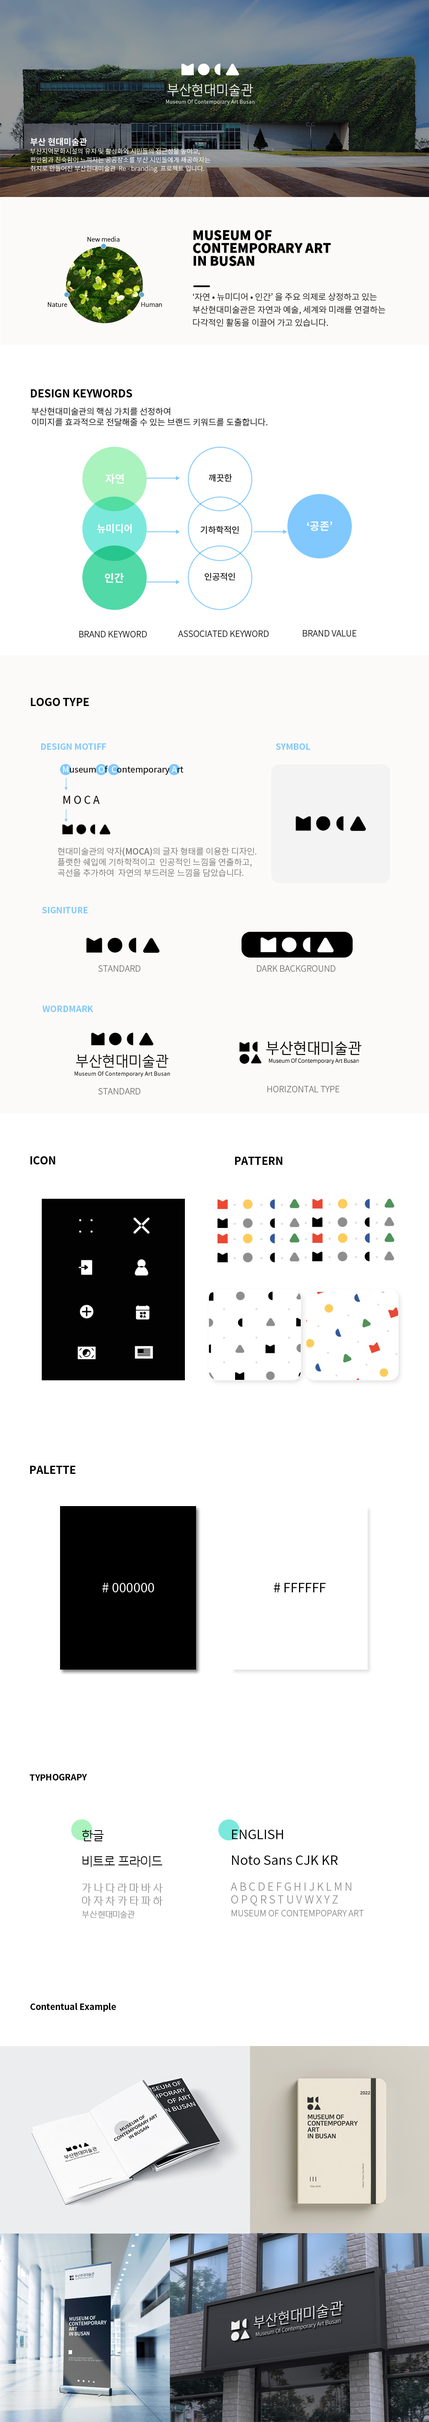
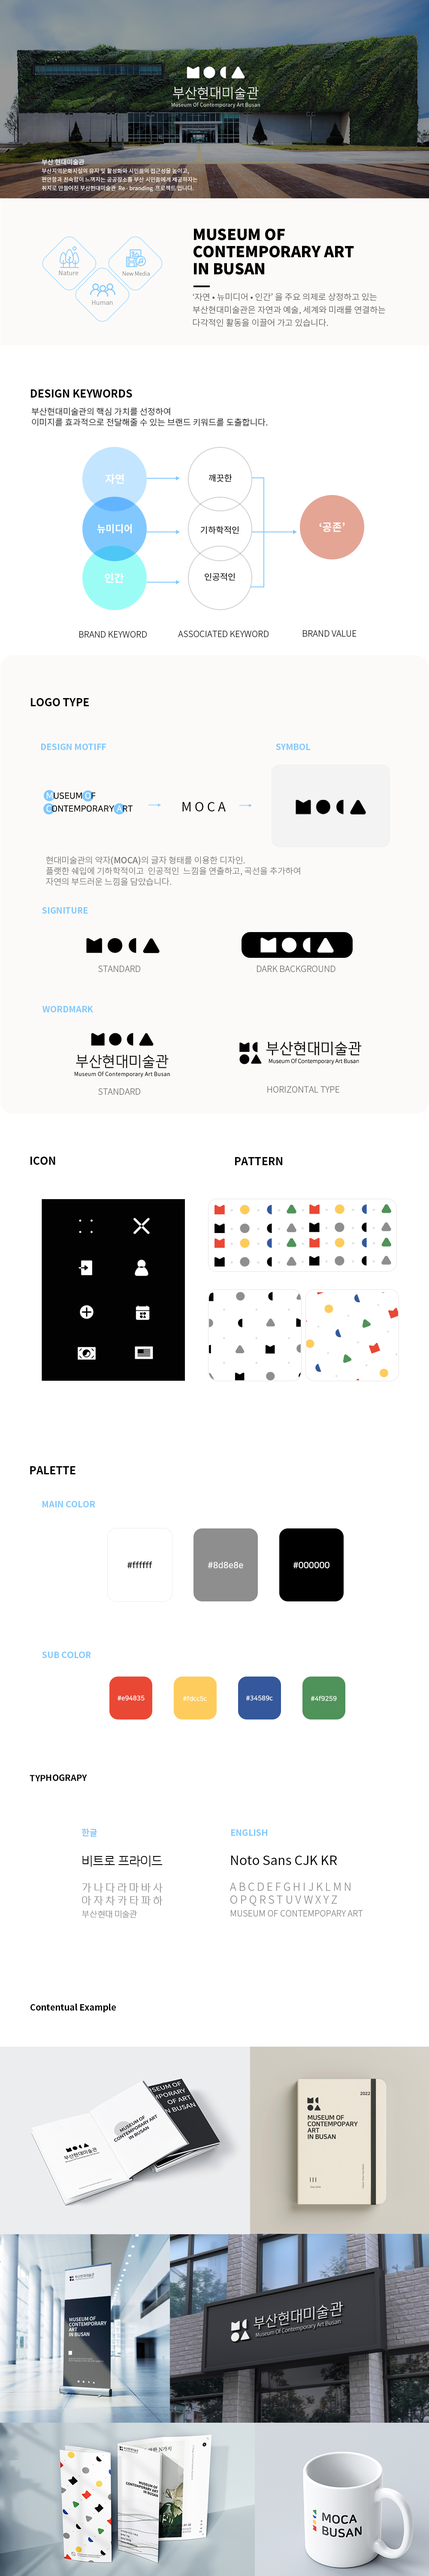
kew 0617

diff --git a/web.html b/web.html
@@ -84,7 +84,7 @@
                                         </li>
                                         <li>
                                             <span class="s_tit">기여도</span>
-                                            <span class="s_tit2"> 100% 개인작업 / 시안제작, HTML·CSS·jQuery 하드코딩, 컨텐츠 제작</span>
+                                            <span class="s_tit2"> 100% 개인작업 / BI·BX 기획, 시안제작, HTML·CSS·jQuery 하드코딩, 컨텐츠 제작</span>
                                         </li>
                                         <li>
                                             <span class="s_tit">제작툴</span>
@@ -97,7 +97,7 @@
                                     </ul>
                                     <div class="btn">
                                         <button><a href="web_moca/index.html" target="_blank"></a></button>
-                                        <button class="moca_over"><a href="web_moca/images/mocaguide.jpg" title="MOCA BUSAN 시스템 가이드" class="pin_a" rel="height"></button>
+                                        <button class="moca_over"><a href="img/mocaguide.jpg" title="MOCA BUSAN 시스템 가이드" class="pin_a" rel="height"></button>
                                     </div>
                                     <!-- <article class="moca_over" title="">	
                                         <a href="web_moca/images/mocaguide.jpg" title="MOCA BUSAN 시스템 가이드" class="pin_a">
@@ -121,7 +121,7 @@
                                         </li>
                                         <li>
                                             <span class="s_tit">기여도</span>
-                                            <span class="s_tit2">100% 개인작업 / 카페24 스킨 수정, 이미지 컨텐츠 제작 </span>
+                                            <span class="s_tit2">100% 개인작업 /카페24 스킨 수정, 이미지 컨텐츠 제작 </span>
                                         </li>
                                         <li>
                                             <span class="s_tit">제작툴</span>
@@ -191,32 +191,32 @@
                                     </a>
                                 </article> -->
                                 <article class="pin-panel" title="height">	
-                                    <a href="img/graphic/lavien.jpg" title="라비앙르로즈 홍보배너" class="pin_a">
+                                    <a href="img/graphic/lavien.jpg" title="라비앙르로즈 홍보배너" class="pin_a" rel="height">
                                         <img src="img/graphic/lavien.jpg" alt="라비앙르로즈 홍보배너">
                                         <h2>라비앙르로즈 홍보배너</h2>
                                     </a>
                                 </article>  
-                                <article class="pin-panel" title="">	
+                                <article class="pin-panel">	
                                     <a href="img/graphic/g_pop_up.png" title="낭만피크닉 팝업배너" class="pin_a">
                                         <img src="img/graphic/g_pop_up.png" alt="낭만피크닉 팝업배너">
                                         <h2>낭만피크닉 팝업배너</h2>
                                     </a>
                                 </article>  
                                  <!-- 첫줄 -->
-                                 <article class="pin-panel" title="">	
+                                 <article class="pin-panel" >	
                                     <a href="img/graphic/moca_banner_01.jpg" title="H&B 메인배너" class="pin_a">
                                         <img src="img/graphic/moca_banner_01.jpg" alt="H&B 메인배너">
                                         <h2>H&B 메인배너</h2>
                                     </a>
                                 </article>
-                                <article class="pin-panel" title="">	
+                                <article class="pin-panel">	
                                     <a href="img/graphic/banner_02.jpg" title="H&B 이벤트 배너" class="pin_a">
                                         <img src="img/graphic/banner_02.jpg" alt="H&B 이벤트 배너">
                                         <h2>H&B 이벤트 배너</h2>
                                     </a>
                                 </article>  
-                                <article class="pin-panel" title="height">	
-                                    <a href="img/graphic/moca_poster2.jpg" title="부산현대미술관 전시 포스터" class="pin_a">
+                                <article class="pin-panel">	
+                                    <a href="img/graphic/moca_poster2.jpg" title="부산현대미술관 전시 포스터" class="pin_a" rel="height">
                                         <img src="img/graphic/moca_poster2.jpg"  alt="부산현대미술관 전시 포스터">
                                         <h2>부산현대미술관 전시 포스터</h2>
                                     </a>
@@ -240,7 +240,7 @@
                                         <h2>부산현대미술관 타이포그래피</h2>
                                     </a>
                                 </article> 
-                                <article class="pin-panel" title="">	
+                                <article class="pin-panel">	
                                     <a href="img/graphic/moca_banner_02.jpg" title="부산현대미술관 배너" class="pin_a">
                                         <img src="img/graphic/moca_banner_02.jpg" alt="부산현대미술관 배너">
                                         <h2>부산현대미술관 배너</h2>
@@ -264,8 +264,8 @@
                                         <h2>샐러베리 프로모션 배너</h2>
                                     </a>
                                 </article> 
-                                <article class="pin-panel" title="height">	
-                                    <a href="img/graphic/moca_poster1.jpg" title="부산현대미술관 전시포스터" class="pin_a">
+                                <article class="pin-panel">	
+                                    <a href="img/graphic/moca_poster1.jpg" title="부산현대미술관 전시포스터" class="pin_a" rel="height">
                                         <img src="img/graphic/moca_poster1.jpg" alt="부산현대미술관 전시포스터">
                                         <h2>부산현대미술관 전시포스터</h2>
                                     </a>
@@ -280,6 +280,12 @@
                                     <a href="img/graphic/salovery_03.jpg" title="샐러베리 프로모션 배너3" class="pin_a">
                                         <img src="img/graphic/salovery_03.jpg" alt="샐러베리 프로모션 배너3">
                                         <h2>샐러베리 프로모션 배너3</h2>
+                                    </a>
+                                </article>     
+                                <article class="pin-panel" title="">	
+                                    <a href="img/mocaguide_mockup.jpg" title="부산현대미술관 BI·BX" class="pin_a" rel="height">
+                                        <img src="img/mocaguide_mockup.jpg" alt="부산현대미술관 BI·BX">
+                                        <h2>부산현대미술관 BI·BX</h2>
                                     </a>
                                 </article>                          
                             </section> 		
